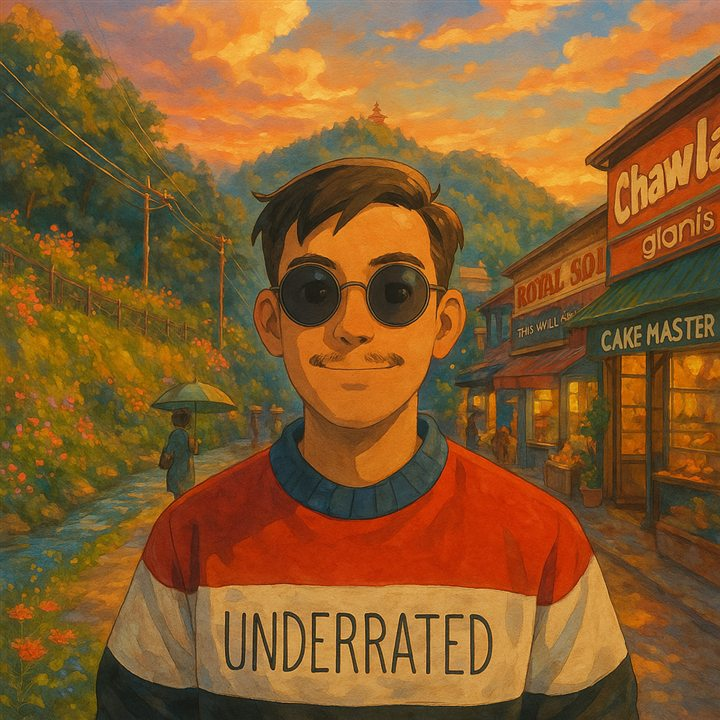
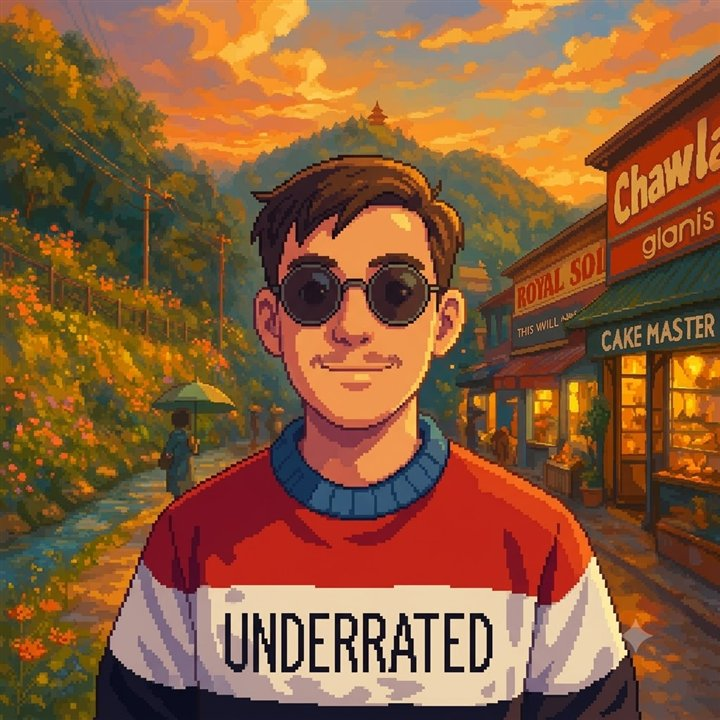
Use the pixel-art portrait and drop two secrets (#13)
- About portrait replaced with the pixel-art version
- Removed the "Come back" secret, including the tab title change
- Removed the "The very bottom" secret; its footer line is now always shown
- The legendary card now takes 10 secrets

diff --git a/js/eggs.js b/js/eggs.js
@@ -12,9 +12,7 @@ const SECRETS = {
   portrait: ['Poke the portrait',  'The portrait does not like being poked. Five times.'],
   logo:     ['Party mode',         'The logo counts your clicks. Seven is lucky.'],
   vansh:    ['Say my name',        'Type my first name anywhere on the page.'],
-  tab:      ['Come back',          'Leave this tab, then return.'],
   idle:     ['Idle walker',        'Do nothing for a minute.'],
-  bottom:   ['The very bottom',    'Scroll until there is nothing left.'],
   rm:       ['rm -rf /',           'Try to delete everything from the terminal.'],
   vim:      ['Escaped vim',        'Open the editor nobody can exit. Then exit it.'],
   matrix:   ['Enter the matrix',   'A terminal command named after a 1999 film.'],
@@ -147,15 +145,6 @@ function foundSecret(id) {
   });
 })();
 
-/* ── Tab title while the visitor is away ── */
-(function () {
-  const title = document.title;
-  document.addEventListener('visibilitychange', () => {
-    document.title = document.hidden ? 'Come back 👀' : title;
-    if (!document.hidden) foundSecret('tab');
-  });
-})();
-
 /* ── Idle for a minute: a small character walks across the bottom ── */
 (function () {
   const IDLE = 60000;
@@ -176,14 +165,6 @@ function foundSecret(id) {
     setTimeout(check, Math.max(1000, IDLE - (Date.now() - last)));
   })();
 })();
-
-/* ── Scrolled to the very bottom ── */
-new IntersectionObserver(([e], o) => {
-  if (!e.isIntersecting) return;
-  o.disconnect();
-  document.getElementById('footSecret').hidden = false;
-  foundSecret('bottom');
-}, { threshold: 0.9 }).observe(document.querySelector('footer'));
 
 /* ── Player card: tag combo, inventory flip, name hold ── */
 (function () {

diff --git a/css/features.css b/css/features.css
@@ -364,7 +364,6 @@ body.dev-mode::after{content:'DEV MODE · ↑↑↓↓←→←→BA to exit';po
 .secret-toast{position:fixed;top:5.5rem;left:50%;transform:translate(-50%,-16px);max-width:calc(100vw - 32px);background:var(--text);color:var(--bg);font-size:0.68rem;letter-spacing:0.14em;text-transform:uppercase;text-align:center;padding:0.7rem 1.1rem;box-shadow:4px 4px 0 rgba(var(--accent-rgb),0.6);z-index:9997;opacity:0;pointer-events:none;transition:opacity 0.3s,transform 0.3s;}
 .secret-toast.show{opacity:1;transform:translate(-50%,0);}
 .secret-toast b{opacity:0.6;margin-left:0.5rem;}
-#footSecret{color:var(--accent);}
 /* Player card: all secrets found */
 .player-card.legendary{border-color:#f5c542;}
 .player-card.legendary::before{background:linear-gradient(#f5c542,#ff9d2e);}

diff --git a/index.html b/index.html
@@ -384,7 +384,7 @@
 </main>
 
 <footer>
-  <p>© 2026 <span class="footer-accent">Vansh Minhas</span> · Built with intention · <span id="footVisits"></span><span id="footSecret" hidden> · You scrolled all the way. Hire me already.</span></p>
+  <p>© 2026 <span class="footer-accent">Vansh Minhas</span> · Built with intention · <span id="footVisits"></span><span class="footer-accent"> · You scrolled all the way. Hire me already.</span></p>
   <p class="print-note">Printed a portfolio? Old school. Respect.</p>
   <div class="footer-right">
     <a class="lh-badge" id="lhBadge" href="https://pagespeed.web.dev/analysis?url=https%3A%2F%2Fvanshff007.github.io%2FPortfolio%2F" target="_blank" rel="noopener noreferrer" hidden></a>
